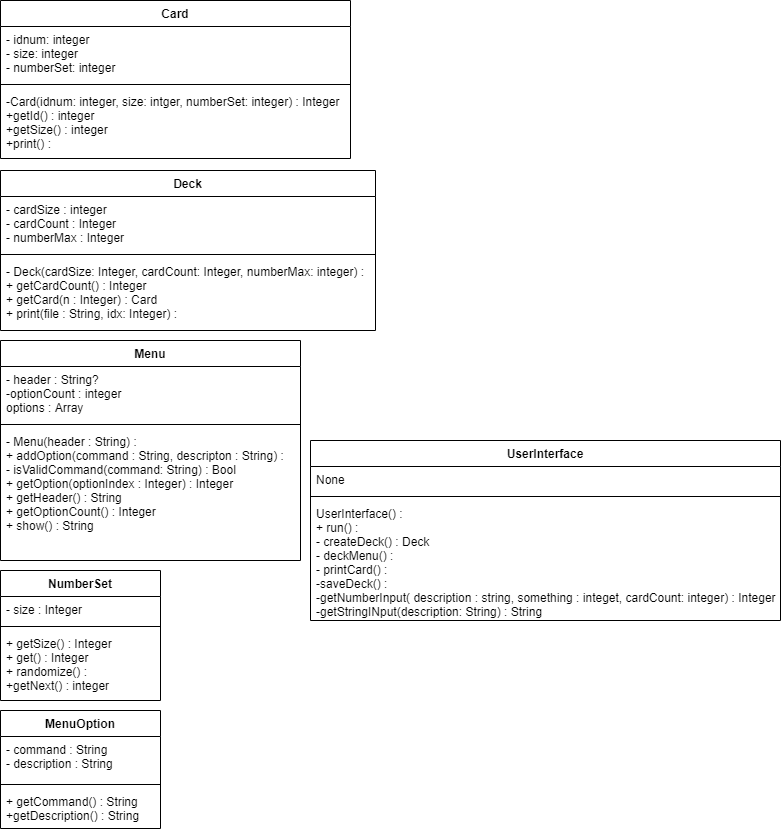
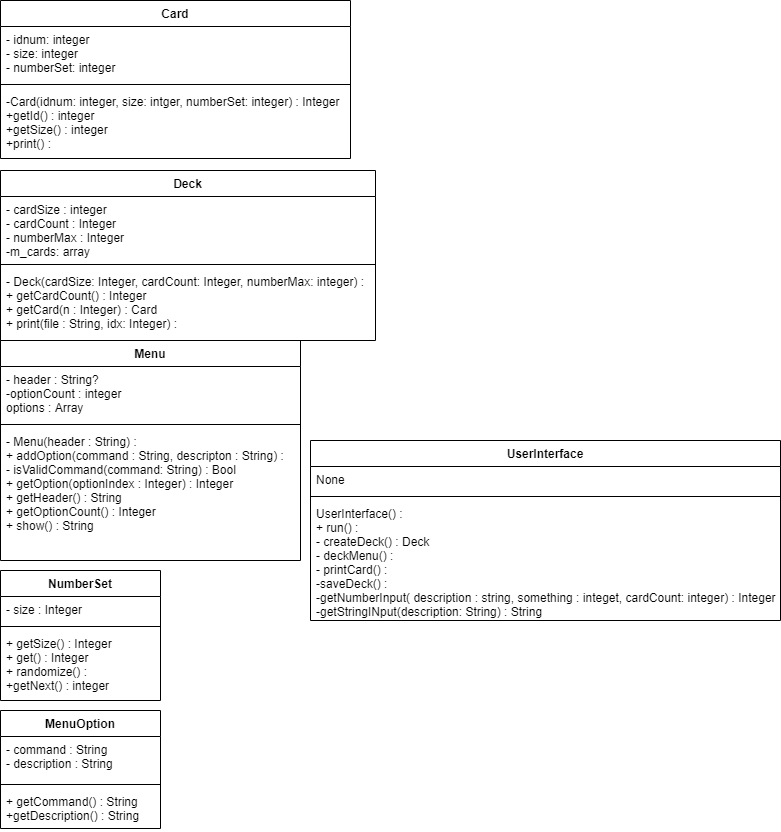
updated plan and UML design

Changed region(s): [[0.0, 0.2812, 0.4609, 0.4062]]

diff --git a/doc/Plan.md b/doc/Plan.md
@@ -106,11 +106,117 @@ try again
 -return that string
 * Outptu: string ( a file name)
 
+
 ##Card Class
+###getId()
+* INput: nothing
+* internal Data: 
+-return the idnum
+* Ouput: idnum of the card
+
+###getSize()
+* Input: nothing
+* internal Data: 
+-return the card size (one dimension of the card)
+* Output: return size of the card
+
+###print(file)
+* Input: optional name of a file (f not given, sys.out)
+* internal Data: 
+-print the current card id to the file specified
+-coe in the formatting for the card here
+-if size is odd, add a free space
+* Output: prints a card to the file given
+
 
 ##Deck Class
+###getCrdCount()
+* input: npthing
+* internal data: 
+-return the cardcount variable
+* output: return cardCount
+
+###getCard(n)
+* Input: the card object that the user wants to print out
+* Internal Data: 
+-card is initially none
+-the number given is decreaseed by one to account for the 
+list index
+-if the number given is in the proper range, the card object
+is taken from m cards, a list of the card objects in deck
+-card is returned
+* Output: returns card object to print out
+
+###print(file, index)
+* Input: name of a file in string format, index of card to
+print
+* internal Data: 
+-if indx is default, print out every card 
+-assign card object to variable c
+-call print on c
+-print a new space
+-if indx is not default, print only the specified card
+
 
 ##Menu Class
+
+###addOption(command, description)
+* Input: command (a single uppercase letter that represents a
+command) and a descripton (what the command does)
+* INternal Data: 
+-if the fields are not left empty, add the tuple (comm,desc)
+to the list of menu options(only availible to specific menu
+object)
+-add one to the menu options count
+* Output: nothing
+
+###__isValidComand(command)
+* Input: command (single uppercase letter)
+* Internal Data: 
+-set variable isValid to false
+-if user selected X, its valid
+-if not, check the command against the list of options.
+-if the command is in that list, its valid
+-return the value of isvalid (boolean)
+* Output: boolean is valid
+
+###getOption(optionIndex)
+* Input: index integer, what option you want to test.
+* Internal Data: 
+-initialize the option to none value
+-if option index is in the proper range, the option is set
+to that index in the list of objects
+-whether it's none or a value, option is returned
+* Output: returns whatever option ends up as. can be none
+
+###getHeader()
+* Input: nothing
+* INternal Data:
+-return the header string for this menu object
+* Output: header string returned
+
+###getOptionCount()
+* Input: nothing
+* INternal Data:
+-return the size of the option count for this menu object
+* Output: option count as an integer is returned
+
+###show()
+* input: nothing
+* INterna data:
+-intialize a command and keepgoing variables to empty string
+and true
+-while that keepgoing var is true, set local option list to
+and empty string, print a newline and the header
+-for the length of the menu objects option count, local 
+option is ith entry of the self option list.
+-if getting the option didn't return none, print the command
+and its desc.
+-add that command and x to the local command optionlist
+-print the prompt for a command
+-if the input is not in the command list (call isvalid)
+-once a valid command is given, return that command
+* Ouput: prints options to user and returns command given.
 
 ##Menu Optoion CLass
 
